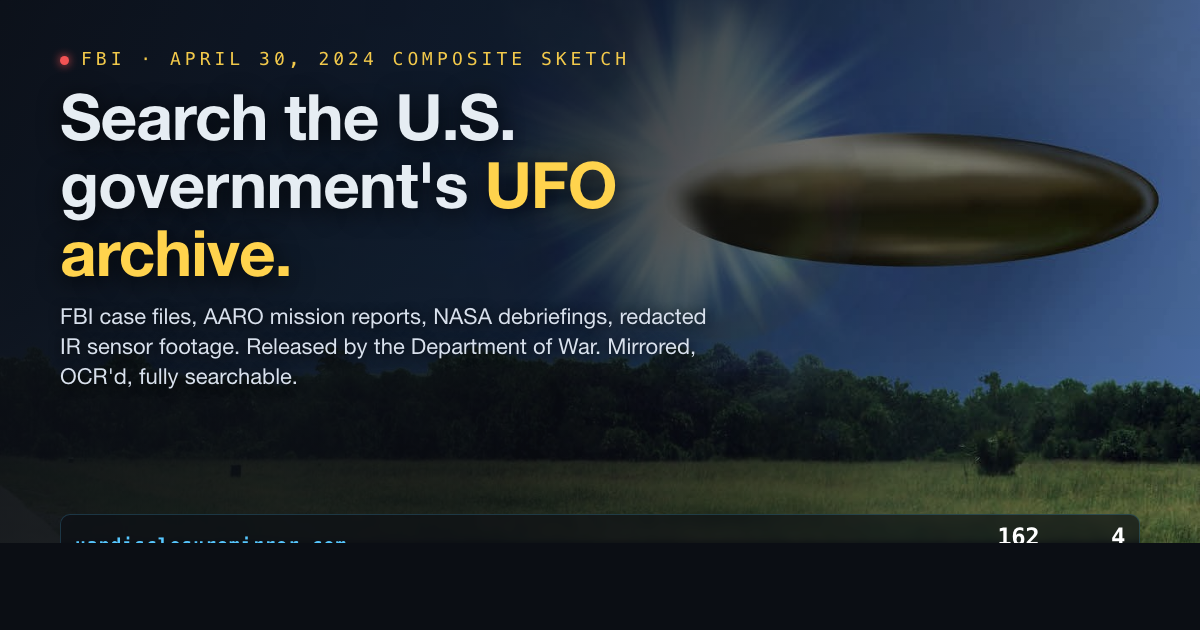
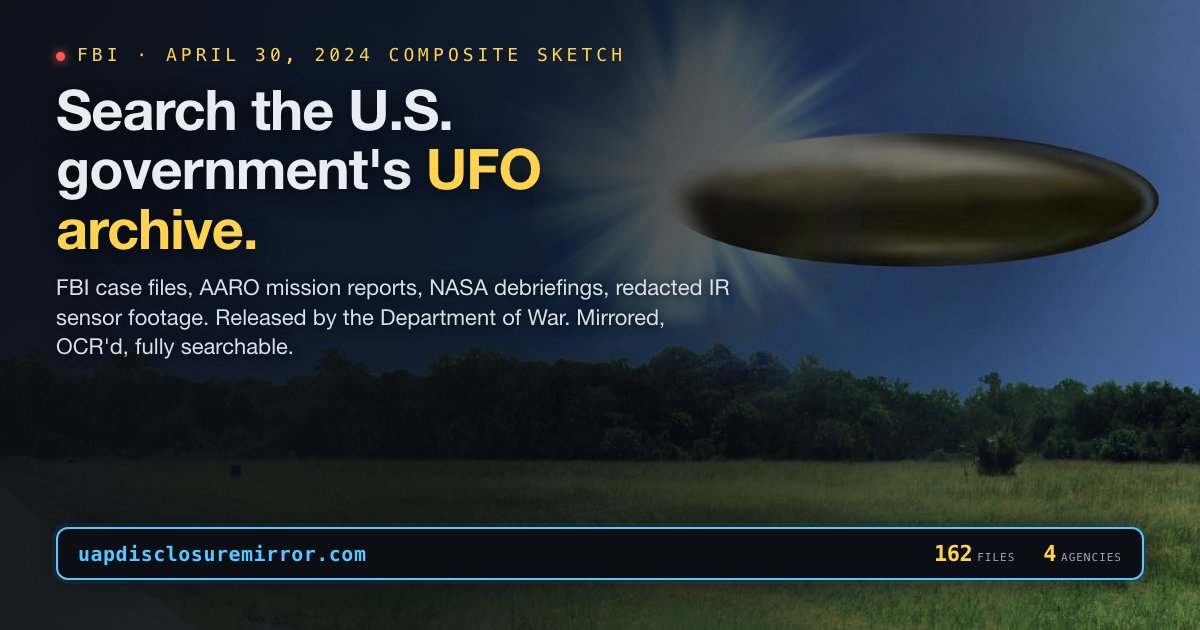
Re-render OG image so foot pill (URL + stats) is fully visible
Headless Chrome was clipping the bottom of the page; rendered at 800h then
cropped to 1200x630 to ensure the cyan-bordered foot pill (with URL + 162
files / 4 agencies) lands cleanly inside the OG canvas.

diff --git a/ui/og/v2-saucer.html b/ui/og/v2-saucer.html
@@ -1,10 +1,70 @@
 <!doctype html>
-<html><head><meta charset="utf-8"><link rel="stylesheet" href="_template.css">
+<html><head><meta charset="utf-8">
 <style>
-  .bg { background-image:url(../../raw/images/2024-04-30-composite-sketch.jpg); filter: saturate(0.6) brightness(0.85) contrast(1.15); }
-  .scrim { background: linear-gradient(110deg, rgba(11,14,20,0.95) 0%, rgba(11,14,20,0.78) 45%, rgba(11,14,20,0.05) 95%); }
-  .top { padding-right: 38%; }
-  h1 em { color: #ffd34d; }
+  * { box-sizing: border-box; margin: 0; padding: 0; }
+  html, body {
+    width: 1200px; height: 630px; overflow: hidden;
+    font-family: "Helvetica Neue", -apple-system, BlinkMacSystemFont, "Segoe UI", Roboto, sans-serif;
+    background: #0b0e14; color: #e6edf3; -webkit-font-smoothing: antialiased;
+  }
+  .frame {
+    position: relative; width: 1200px; height: 630px;
+    padding: 44px 56px 36px; overflow: hidden;
+  }
+  .bg {
+    position: absolute; inset: 0; z-index: 0;
+    background-image: url(../../raw/images/2024-04-30-composite-sketch.jpg);
+    background-size: cover; background-position: center;
+    filter: saturate(0.6) brightness(0.85) contrast(1.15);
+  }
+  .scrim {
+    position: absolute; inset: 0; z-index: 1;
+    background: linear-gradient(110deg, rgba(11,14,20,0.95) 0%, rgba(11,14,20,0.78) 45%, rgba(11,14,20,0.05) 95%);
+  }
+  .top { position: relative; z-index: 2; padding-right: 38%; }
+  .kicker {
+    font-family: ui-monospace, "SF Mono", "Menlo", monospace;
+    font-size: 18px; letter-spacing: 4px; text-transform: uppercase;
+    color: #ffd34d;
+  }
+  .kicker .pip {
+    display: inline-block; width: 9px; height: 9px; border-radius: 50%;
+    background: #ff5757; margin-right: 12px; vertical-align: middle;
+    box-shadow: 0 0 10px #ff5757;
+  }
+  h1 {
+    font-size: 56px; line-height: 1.06; font-weight: 800;
+    letter-spacing: -1.0px; margin-top: 14px;
+    text-shadow: 0 4px 24px rgba(0,0,0,0.85);
+  }
+  h1 em { font-style: normal; color: #ffd34d; }
+  .sub {
+    font-size: 22px; line-height: 1.35; color: #d8e0ec;
+    margin-top: 16px; max-width: 700px;
+    text-shadow: 0 2px 12px rgba(0,0,0,0.85);
+  }
+  .foot {
+    position: absolute; left: 56px; right: 56px; bottom: 50px; z-index: 5;
+    display: flex; justify-content: space-between; align-items: center;
+    padding: 12px 20px; border-radius: 12px;
+    background: #0b0e14;
+    border: 2px solid #57c7ff;
+    box-shadow: 0 0 32px rgba(11,14,20,0.95), 0 0 0 4px rgba(87,199,255,0.1);
+  }
+  .url {
+    font-family: ui-monospace, "SF Mono", "Menlo", monospace;
+    font-size: 20px; color: #57c7ff; letter-spacing: 0.5px; font-weight: 700;
+  }
+  .stats {
+    display: flex; gap: 28px; align-items: baseline;
+    font-family: ui-monospace, "SF Mono", "Menlo", monospace;
+    font-size: 11px; text-transform: uppercase; letter-spacing: 1px; color: #9aa5b8;
+  }
+  .stats span { white-space: nowrap; }
+  .stats b {
+    font-size: 22px; color: #ffd34d; font-weight: 700;
+    letter-spacing: -0.5px; margin-right: 5px;
+  }
 </style>
 </head><body><div class="frame">
   <div class="bg"></div>

diff --git a/ui/og/_template.css b/ui/og/_template.css
@@ -9,7 +9,7 @@ html, body {
 .frame {
   position: relative; width: 1200px; height: 630px;
   display: flex; flex-direction: column; justify-content: space-between;
-  padding: 48px 60px 56px;
+  padding: 40px 56px 36px;
   overflow: hidden;
 }
 .scrim {
@@ -20,7 +20,11 @@ html, body {
   position: absolute; inset: 0; z-index: 0;
   background-size: cover; background-position: center;
 }
-.top, .foot { position: relative; z-index: 2; }
+.top { position: relative; z-index: 2; }
+.foot {
+  position: absolute !important; left: 56px !important; right: 56px !important; bottom: 36px !important; z-index: 99 !important;
+  outline: 4px solid lime !important;
+}
 .kicker {
   font-family: ui-monospace, "SF Mono", "Menlo", monospace;
   font-size: 18px; letter-spacing: 4px; text-transform: uppercase;
@@ -45,18 +49,22 @@ h1 em { font-style: normal; color: #57c7ff; }
 }
 .foot {
   display: flex; justify-content: space-between; align-items: center;
-  font-size: 16px; color: #9aa5b8;
-  padding: 10px 14px; border-radius: 10px;
-  background: rgba(11,14,20,0.65); backdrop-filter: blur(4px);
-  border: 1px solid rgba(87,199,255,0.2);
+  font-size: 14px; color: #cbd5e1;
+  padding: 10px 18px; border-radius: 10px;
+  background: #0b0e14;
+  border: 1.5px solid #57c7ff;
+  box-shadow: 0 0 32px rgba(11,14,20,0.85), 0 0 0 4px rgba(87,199,255,0.08);
+  min-height: 0;
 }
-.foot .url { font-family: ui-monospace, "SF Mono", "Menlo", monospace; font-size: 18px; color: #57c7ff; letter-spacing: 1px; font-weight: 600; }
+.foot .url { font-family: ui-monospace, "SF Mono", "Menlo", monospace; font-size: 18px; color: #57c7ff; letter-spacing: 0.5px; font-weight: 700; }
 .foot .stats {
-  display: flex; gap: 28px; align-items: center;
-  font-family: ui-monospace, SFMono-Regular, Menlo, monospace; font-size: 12px;
+  display: flex; gap: 22px; align-items: baseline;
+  font-family: ui-monospace, SFMono-Regular, Menlo, monospace; font-size: 10px; text-transform: uppercase; letter-spacing: 1px; color: #9aa5b8;
 }
-.foot .stats span { display: flex; flex-direction: column; align-items: flex-end; line-height: 1.05; }
-.foot .stats span b { font-size: 24px; color: #fff; font-family: ui-monospace, "SF Mono", "Menlo", monospace; font-weight: 700; letter-spacing: -0.5px; }
+.foot .stats span b {
+  font-size: 20px; color: #ffd34d; font-family: ui-monospace, "SF Mono", "Menlo", monospace;
+  font-weight: 700; letter-spacing: -0.5px; margin-right: 4px;
+}
 .classified-stamp {
   position: absolute; top: 36px; right: 40px; z-index: 4;
   font-family: ui-monospace, "SF Mono", "Menlo", monospace; font-size: 16px; font-weight: 800;